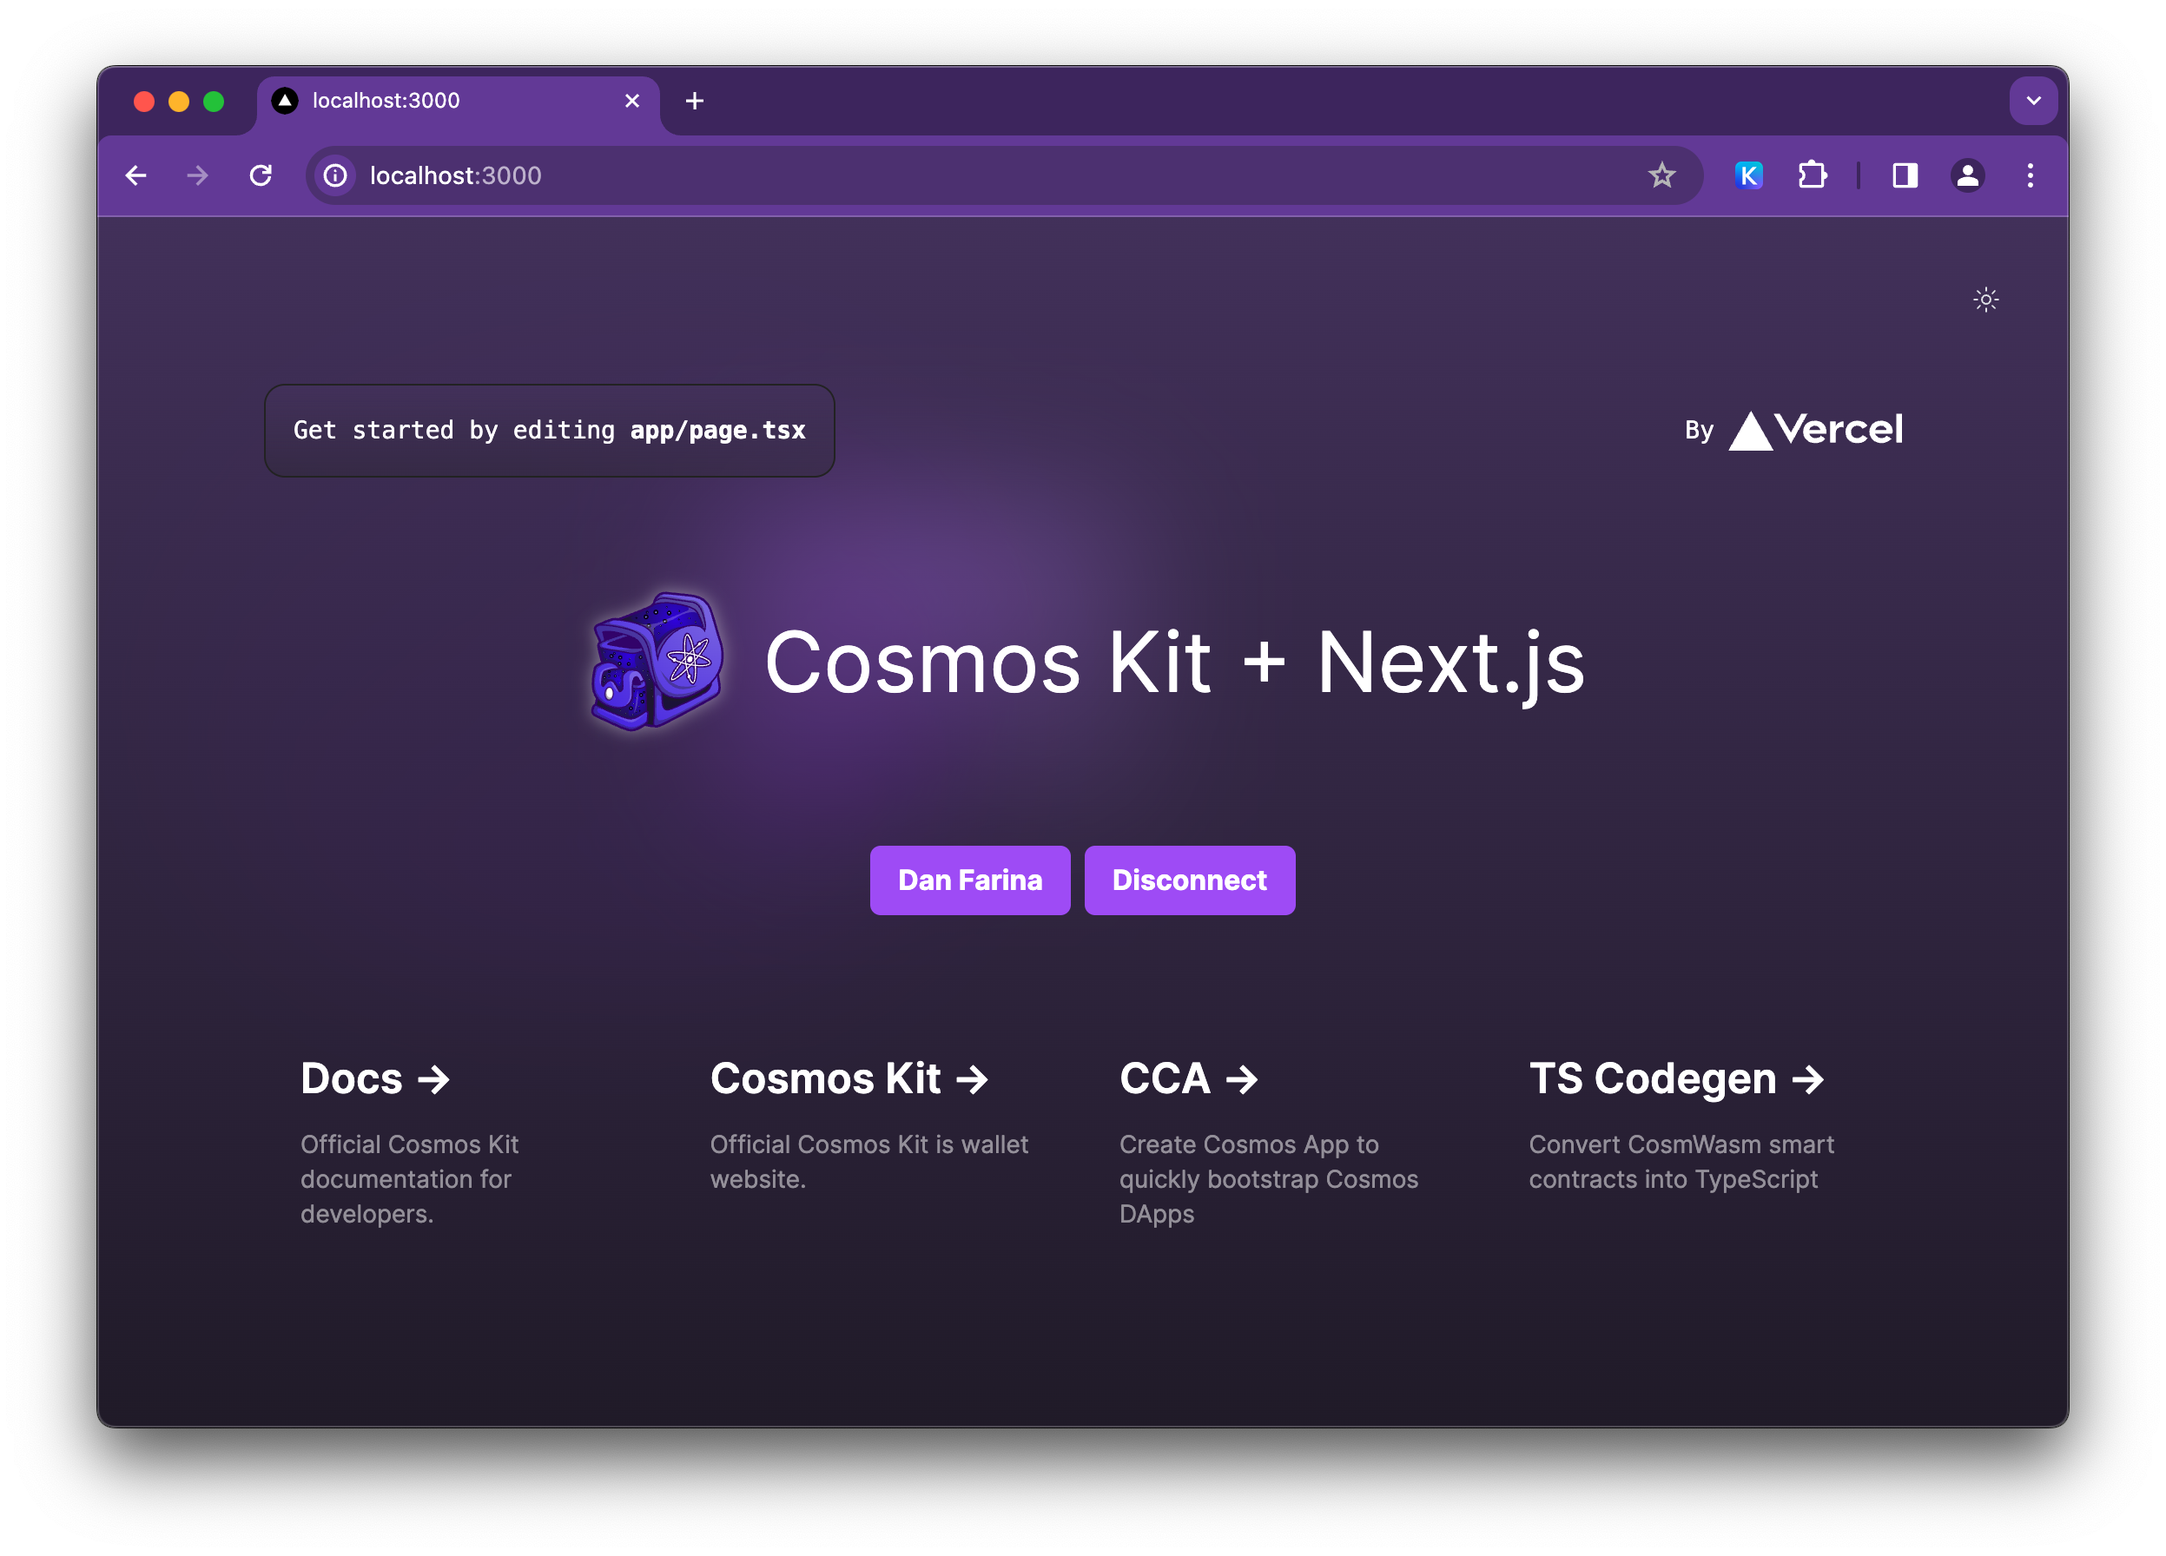
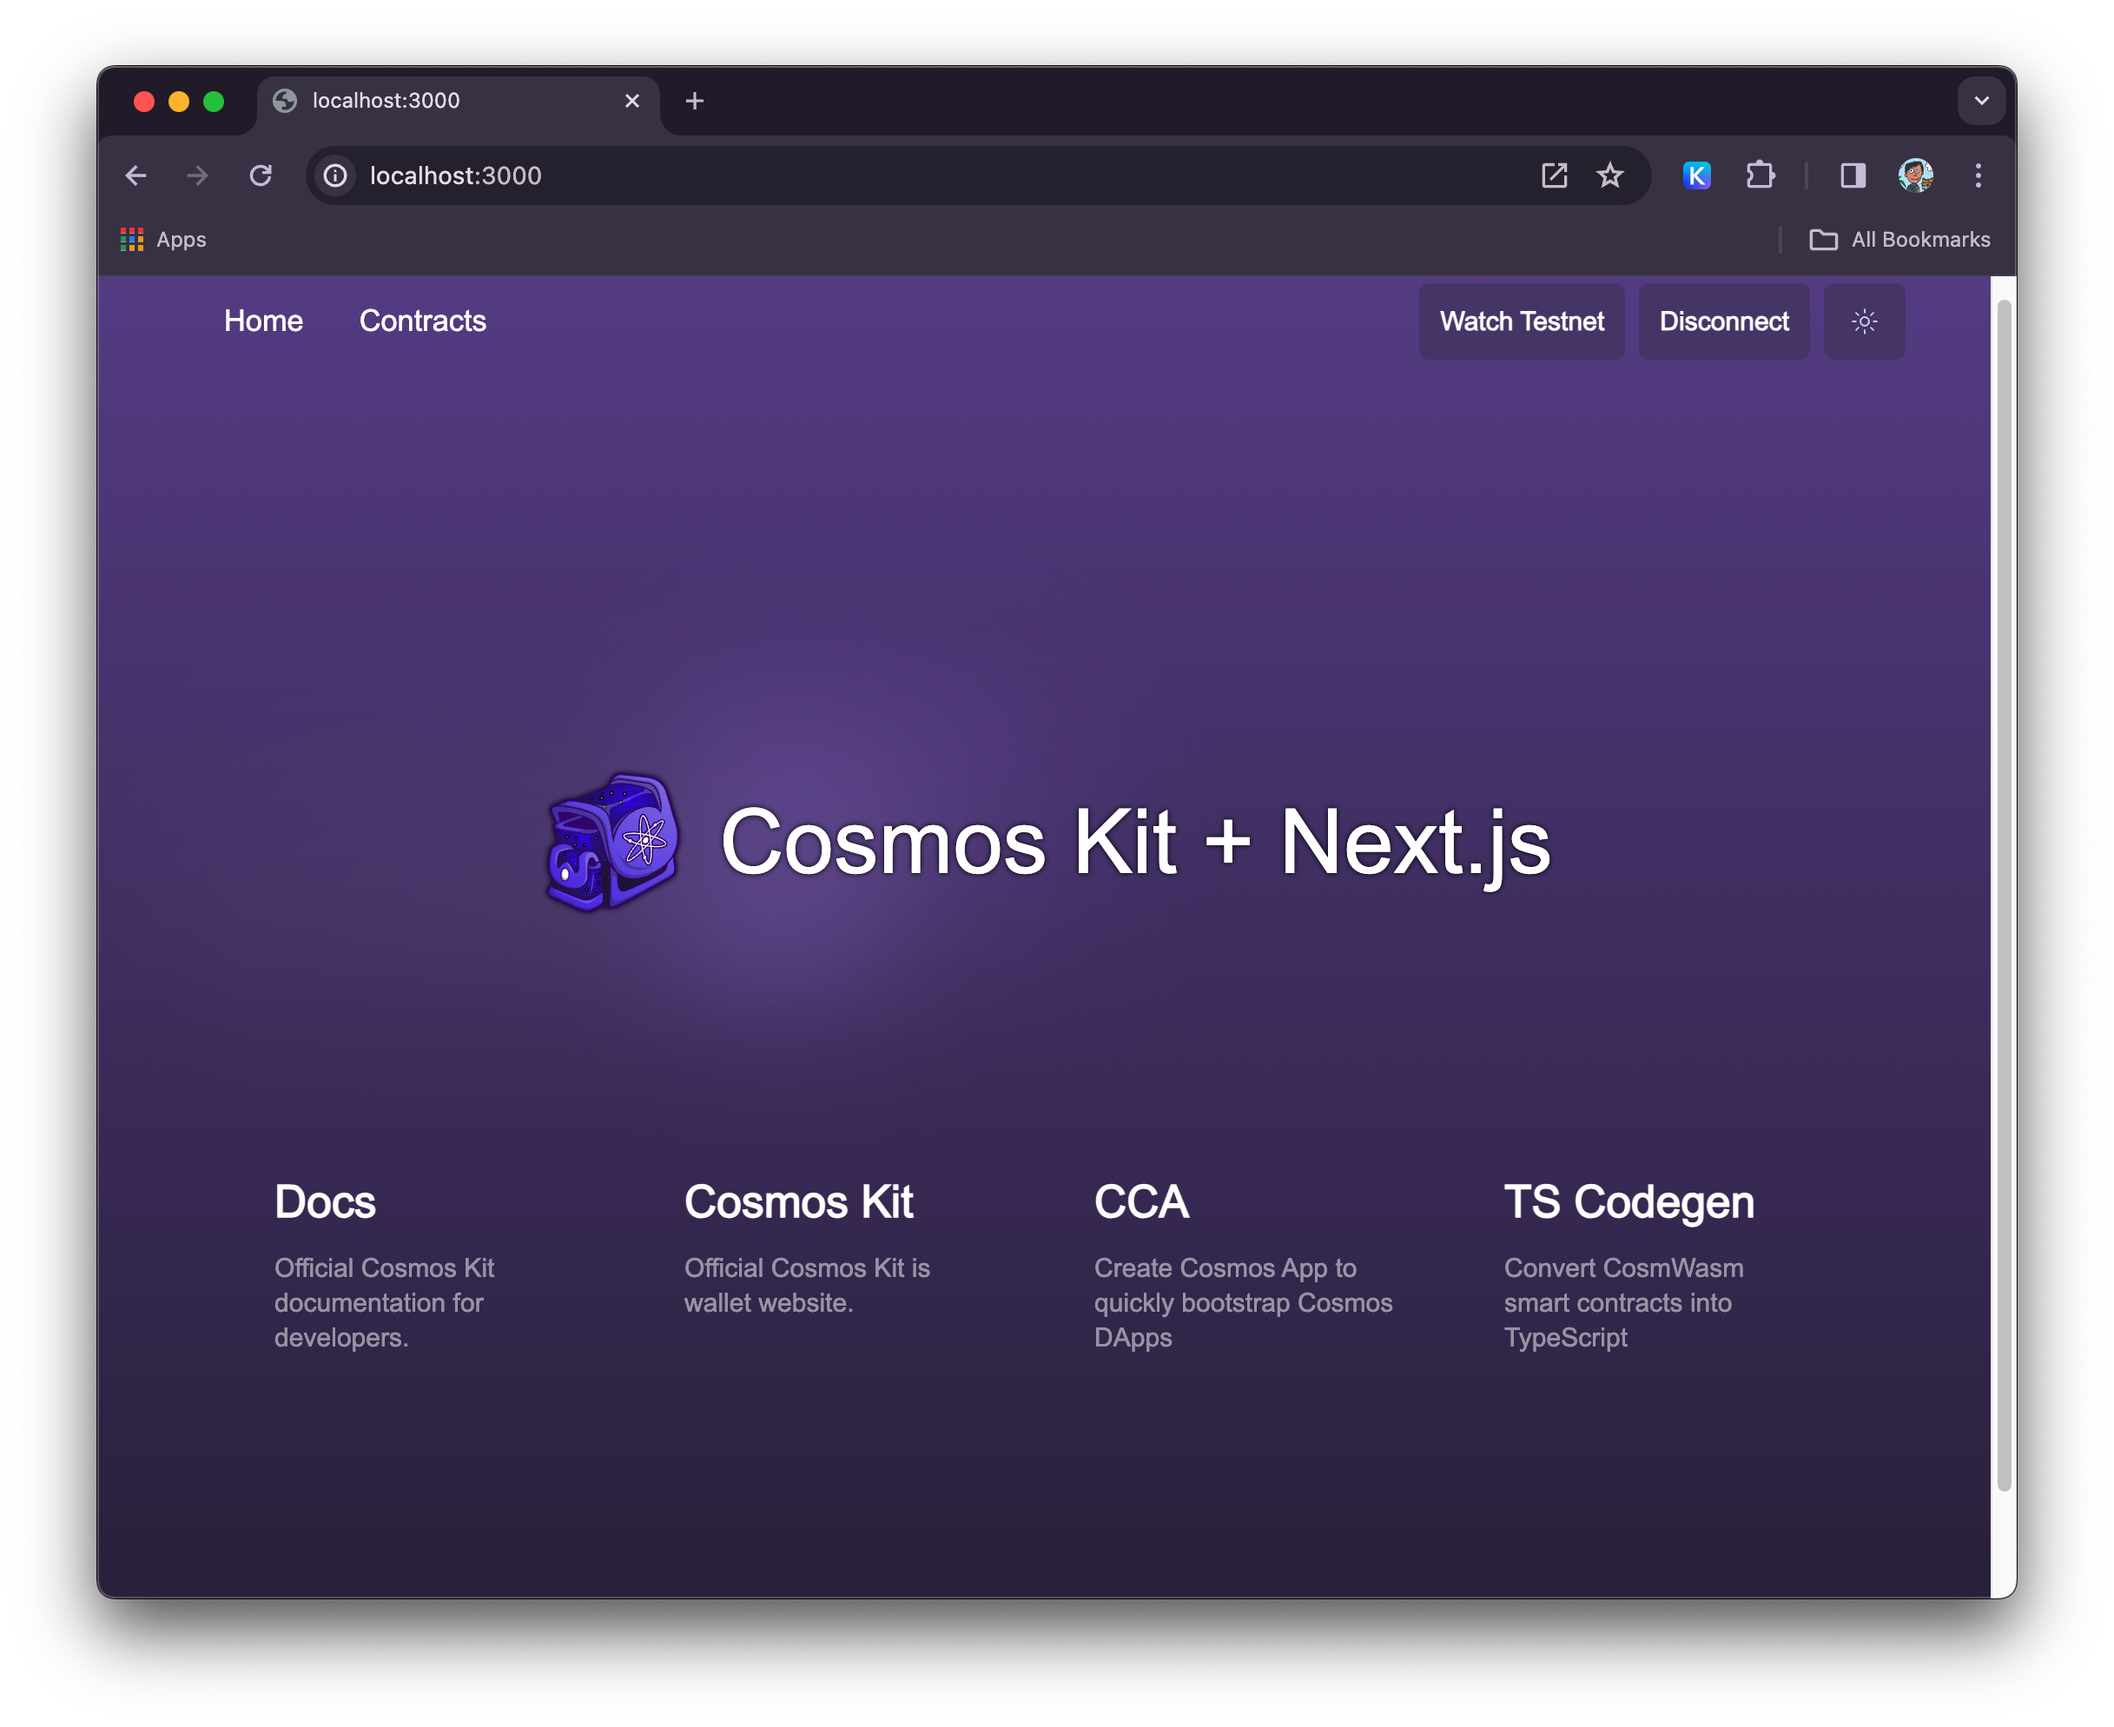
docs

diff --git a/README.md b/README.md
@@ -2,7 +2,10 @@ This is a [Next.js](https://nextjs.org/) project bootstrapped with [`create-next
 
 Live demo from latest build: https://cosmos-kit.vercel.app/
 
-![Alt text](image.png)
+![Home page](image.png)
+
+Contract instantiation example:
+![Contract Page](image2.png)
 
 ## This project was created with the following options:
 
@@ -26,11 +29,16 @@ This boilerplate was built using the following technologies:
 applications.
 - More examples and integrations coming soon!
 
-## Enabled Features
-- Keplr Login
-- Leap Wallet Login
-- Web3auth Login (Login with Google) (Coming soon)
+## ✅ Enabled Features
+- Cosmos-kit integration
+  - Keplr Login
+  - Leap Wallet Login
+  - Web3auth Login (Login with Google Coming soon, WIP but you can enable it to play with it, it has a few open bugs still)
 - React Toastify examples and integrated
+- Example Contract: [CW-NFTS](https://github.com/CosmWasm/cw-nfts) 
+  - Instantiation example
+  - More interaction examples coming soon.
+- TS-Codegen generation example
 
 ## Getting Started
 
@@ -51,6 +59,76 @@ Open [http://localhost:3000](http://localhost:3000) with your browser to see the
 You can start editing the page by modifying `app/page.tsx`. The page auto-updates as you edit the file.
 
 This project uses [`next/font`](https://nextjs.org/docs/basic-features/font-optimization) to automatically optimize and load Inter, a custom Google Font.
+
+## Example contract
+
+We added a copy of cw-nfts contracts to the contracts directory which we are using to build a binary file, schema and typescript types. In this example we will use `contracts/cw-nfts/contracts/cw721-base` as an example.
+
+## Install cargo make
+```
+cargo install cargo-make
+```
+
+### Build the Contracts
+
+To compile the contracts to WebAssembly, run:
+
+```sh
+cd contracts/cw-nfts/
+cargo make build
+```
+This command will generate the .wasm binaries for both contracts within the artifacts directory.
+
+## Build optimized versions
+
+```
+docker run --rm -v "$(pwd)":/code \
+  --mount type=volume,source="$(basename "$(pwd)")_cache",target=/target \
+  --mount type=volume,source=registry_cache,target=/usr/local/cargo/registry \
+  cosmwasm/optimizer:0.15.0
+```
+
+## Generate Javascript Schema
+
+```
+cargo make schema
+```
+
+## Upload binary to Celatone
+Go to https://celatone.osmosis.zone/osmo-test-5/upload 
+Upload the binary file from `contracts/cw-nfts/contracts/cw721-base/schema/cw721-base.json`
+
+## Upload schema to Celatone
+Once the binary is uploaded, you will need to upload the schema. The schema can be found in `contracts/cw-nfts/artifacts/schema.wasm.json`
+
+## Code ID
+The code id can be found in the on Celatone after uploading the binary file or by going to https://celatone.osmosis.zone/osmo-test-5/stored-codes. You might also use `5999` for testing purposes which was uploaded already.
+
+The code ID is what can be used to instantiate the contract as seen on line 23 of app/contracts/page.tsx.
+
+
+## Generating Typescript types
+ In order to generate typescript types for the contracts, you will need to install `ts-codegen``. This can be done by running the following command:
+
+### Install ts-codegen
+ ```
+ npm install -g ts-codegen
+ ```
+
+ ### Generate typescript types
+ The following command will generate the typescript types for the contracts. The generated types will be placed in the `ts` directory.
+ ```
+ cd contracts/cw-nfts/contracts/cw721-base
+ cosmwasm-ts-codegen generate \
+          --plugin client \
+          --schema ./schema \
+          --out ../../../contract-client \
+          --name cw721 \
+          --no-bundle
+```
+
+This will generate a client which we will use with our application. They are stored in contract-client directory.
+
 
 ## Learn More about Cosmos Kit
 To learn more about Next.js, take a look at the following resources: 
@@ -78,73 +156,3 @@ The easiest way to deploy your Next.js app is to use the [Vercel Platform](https
 
 Check out our [Next.js deployment documentation](https://nextjs.org/docs/deployment) for more details.
 
-
-
-## Example contract
-
-We added a copy of cw-nfts contracts to the contracts directory which we are using to build a binary file, schema and typescript types. In this example we will use `contracts/cw-nfts/contracts/cw721-base` as an example.
-
-## Install cargo make
-```
-cargo install cargo-make
-```
-
-### Building the Contracts
-
-To compile the contracts to WebAssembly, run:
-
-```sh
-cd contracts/cw-nfts/
-cargo make build
-```
-This command will generate the .wasm binaries for both contracts within the artifacts directory.
-
-## Build optimized versions
-
-```
-docker run --rm -v "$(pwd)":/code \
-  --mount type=volume,source="$(basename "$(pwd)")_cache",target=/target \
-  --mount type=volume,source=registry_cache,target=/usr/local/cargo/registry \
-  cosmwasm/optimizer:0.15.0
-```
-
-## Generate Javascript Schema
-
-```
-cargo make schema
-```
-
-## Upload binary to Celatone
-Go to https://celatone.osmosis.zone/osmo-test-5/upload 
-Upload the binary file from `/Users/web/watch/cosmos-kit-nextjs14/contracts/cw-nfts/contracts/cw721-base/schema/cw721-base.json`
-
-## Upload schema to Celatone
-Once the binary is uploaded, you will need to upload the schema. The schema can be found in `contracts/cw-nfts/artifacts/schema.wasm.json`
-
-## Code ID
-The code id can be found in the on Celatone after uploading the binary file or by going to https://celatone.osmosis.zone/osmo-test-5/stored-codes. You might also use 5999 for testing purposes which was uploaded already.
-
-## The code ID is what can be used to instantiate the contract as seen on line 23 of app/contracts/page.tsx
-```
-
-## Generating Typescript types
- In order to generate typescript types for the contracts, you will need to install ts-codegen. This can be done by running the following command:
-
-### Install ts-codegen
- ```
- npm install -g ts-codegen
- ```
-
- ### Generate typescript types
- The following command will generate the typescript types for the contracts. The generated types will be placed in the `ts` directory.
- ```
- cd contracts/cw-nfts/contracts/cw721-base
- cosmwasm-ts-codegen generate \
-          --plugin client \
-          --schema ./schema \
-          --out ../../../contract-client \
-          --name cw721 \
-          --no-bundle
-```
-
-This will generate a client which we will use with our application. They are stored in contract-client directory.

diff --git a/contracts/cw-nfts/README.md b/contracts/cw-nfts/README.md
@@ -1,3 +1,6 @@
+# Demo Code Only
+This is just a copy for demo purposes of this front-end boilerplate. Please make sur to download the latest version of this contract at https://github.com/CosmWasm/cw-nfts
+
 # CosmWasm NFTS
 
 This repo is the official repository to work on all NFT standard and examples
